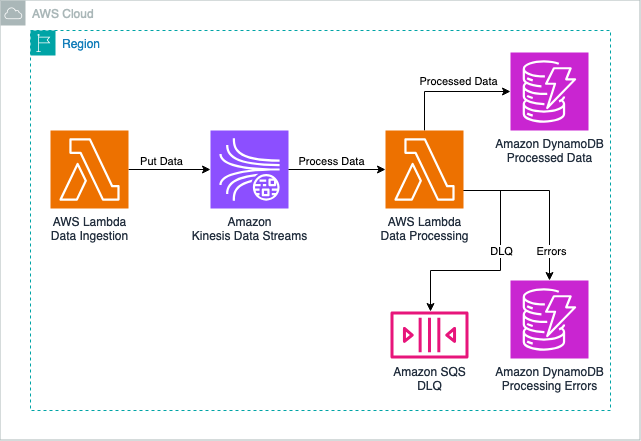
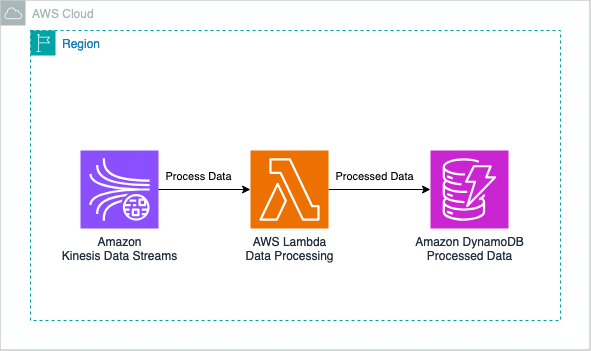
Updating ReadMe and example-pattern with architecture diagram.

Changed region(s): [[0.0, 0.0, 0.9746, 0.9402], [0.0914, 0.6838, 0.3046, 0.7407]]

diff --git a/kinesis-lambda-dynamodb-pipeline-dotnet-cdk/README.md b/kinesis-lambda-dynamodb-pipeline-dotnet-cdk/README.md
@@ -1,6 +1,6 @@
 # Real-time Data Pipeline with Kinesis, Lambda, and DynamoDB using AWS CDK .NET
 
-This pattern demonstrates how to create a serverless real-time data pipeline using Amazon Kinesis for data ingestion, AWS Lambda for processing, Amazon DynamoDB for data storage and error logging, and Amazon SQS as a Dead Letter Queue for handling failed records. The pattern includes robust error handling and retry mechanisms, and is implemented using AWS CDK with .NET.
+This pattern demonstrates how to create a serverless real-time data pipeline using Amazon Kinesis for data ingestion, AWS Lambda for processing, Amazon DynamoDB for data storage. The pattern is implemented using AWS CDK with .NET.
 
 Learn more about this pattern at Serverless Land Patterns: https://serverlessland.com/patterns/kinesis-lambda-dynamodb-pipeline-dotnet-cdk
 
@@ -49,13 +49,13 @@ This pattern creates a serverless real-time data pipeline:
 1. Data is ingested through an Amazon Kinesis Data Stream.
 2. An AWS Lambda function is triggered by new records in the Kinesis stream.
 3. The Lambda function processes the data and stores it in an Amazon DynamoDB table.
-4. If any errors occur during processing, they are logged in a separate DynamoDB table for error tracking. The Lambda function will retry processing failed records up to maximum retry count. If a record consistently fails processing after these retries, it is automatically sent to an SQS Dead Letter Queue (DLQ) for further investigation and handling, ensuring no data is lost due to processing errors.
+4. If any errors occur during processing, they are logged to CloudWatch. It can also be stored in a separate database table for error tracking. The Lambda function will retry processing failed records up to maximum retry count. If a record consistently fails processing after these retries, you can use SQS Dead Letter Queue (DLQ) for further investigation and handling, ensuring no data is lost due to processing errors.
 
-The AWS CDK is used to define and deploy all the necessary AWS resources, including the Kinesis stream, Lambda function, DynamoDB tables, SQS Dead Letter Queue (DLQ) and associated IAM roles and permissions.
+The AWS CDK is used to define and deploy all the necessary AWS resources, including the Kinesis stream, Lambda function, DynamoDB tables and associated IAM roles and permissions.
 
 ## Testing
 
-1. Out new record into Kinesis stream.
+1. Put new record into Kinesis stream.
 
     - Use the AWS CLI to put a record into the Kinesis stream (replace `<KinesisStreamName>` with the actual stream name from the CDK output):
 
@@ -66,32 +66,21 @@ The AWS CDK is used to define and deploy all the necessary AWS resources, includ
     --partition-key 1 \
     --data '{ "Timestamp": "2024-09-13T23:06:55.934081Z", "Value": 81, "Category": "C" }'
     ```
-    - Use Lambda function to put a record into the Kinesis stream (replace `<DataIngestionLambdaFunctionName>` with the actual data ingestion lambda function name from the CDK output):
-    ```
-    aws lambda invoke \
-    --cli-binary-format raw-in-base64-out \
-    --function-name <DataIngestionLambdaFunctionName> \
-    --payload '{ "Timestamp": "2024-09-13T23:06:55.934081Z", "Value": 81, "Category": "C" }' \
-    response.json
-    ```
-
 2. Check the DynamoDB tables in the AWS Console:
    - The "processed-data-table" should contain the processed record.
-   - If any errors occurred, they would be logged in the "error-log-table".
+   - If any errors occurred, they would be logged in the CloudWatch.
 
 3. You can also check the CloudWatch Logs for the Lambda function to see the processing details and any potential errors.
 
-4. To test error scenarios, you can intentionally send malformed data to the Kinesis stream and verify that it ends up in the Dead Letter Queue after the retry attempts.
+4. If you have implemented DLQ, to test error scenarios, you can intentionally send malformed data to the Kinesis stream and verify that it ends up in the Dead Letter Queue after the retry attempts.
 
 5. Additional unit and integration tests are located in the `test` directory under each Lambda function's directory. These tests can be run locally to verify the behavior of individual components:
     ```
     dotnet test src
     ```
-These tests cover various scenarios including successful processing, error handling, and DLQ interactions.
-
 6. For a more comprehensive end-to-end test, you can use the AWS Step Functions service to orchestrate a test workflow that includes putting records into Kinesis, waiting for processing, and then checking the results in DynamoDB and the DLQ.
 
-Remember to clean up any test data from your DynamoDB tables and SQS queues after testing to avoid unnecessary storage costs.
+Remember to clean up any test data from your DynamoDB table after testing to avoid unnecessary storage costs.
 
 ## Cleanup
  
